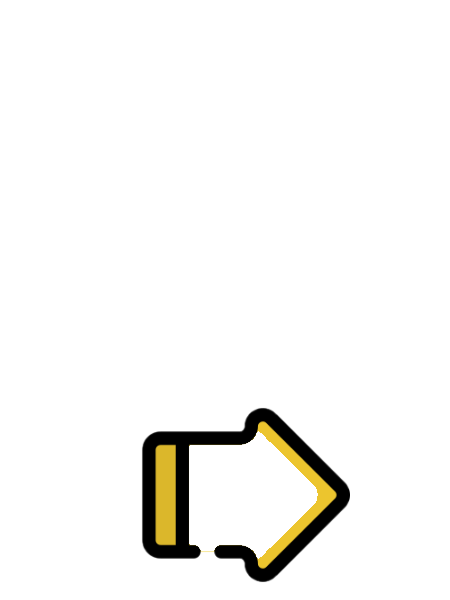
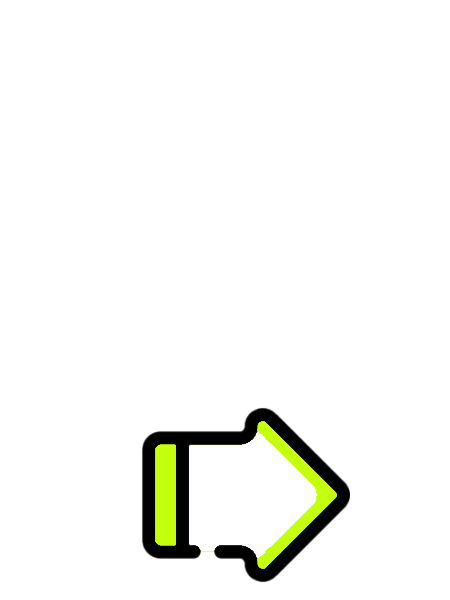
signals added

Changed region(s): [[0.56, 0.69, 0.7467, 0.96], [0.3422, 0.72, 0.4044, 0.93]]

diff --git a/selfdrive/ui/qt/offroad/frogpilot_settings.h b/selfdrive/ui/qt/offroad/frogpilot_settings.h
@@ -275,7 +275,7 @@ ParamController(CustomIcons, "CustomIcons", "Icons", "Replace the stock openpilo
 
 ParamController(CustomSignals, "CustomSignals", "Signals", "Enable a custom turn signal animation.\n\nWant to submit your own turn signal animation? Post it in the 'feature-request' channel on the FrogPilot Discord!", "../assets/offroad/icon_blank.png",
   const int turnSignals = params.getInt("CustomSignals");
-  return turnSignals == 0 ? "Stock" : turnSignals == 1 ? "Tesla" : "Stalin";,
+  return turnSignals == 0 ? "Stock" : turnSignals == 1 ? "Frog" : turnSignals == 2 ? "Tesla" : "Stalin";,
   return v >= 0 ? v % 4 : 3;
 )
 
